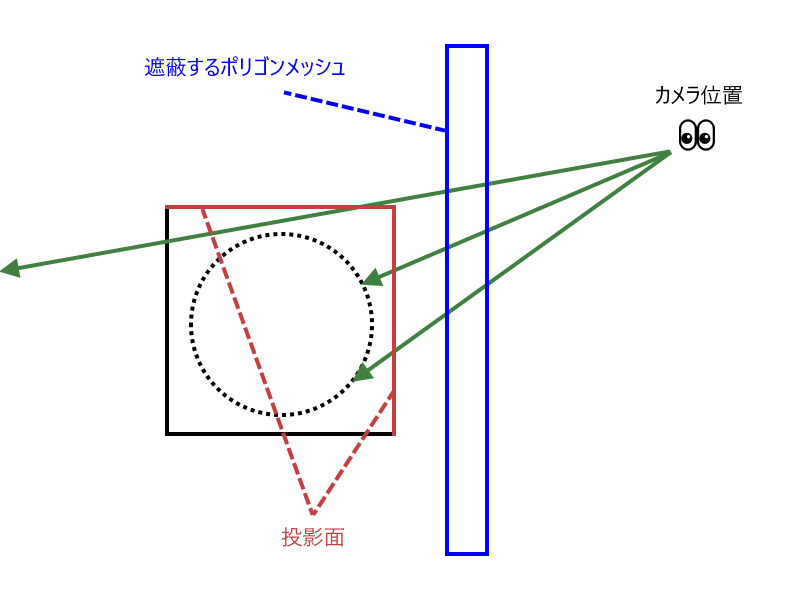
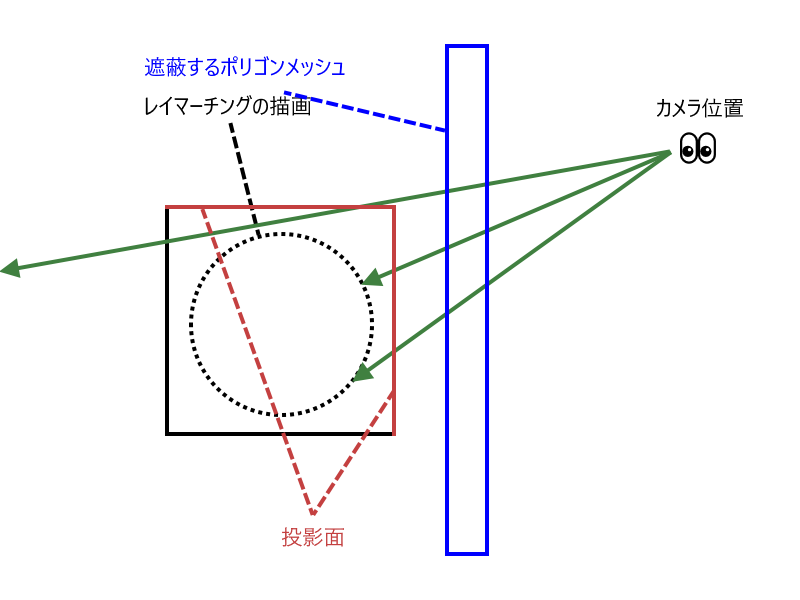
feat: Add optimize methods

Changed region(s): [[0.1875, 0.15, 0.4062, 0.33], [0.8125, 0.12, 0.9375, 0.27], [0.3125, 0.36, 0.3438, 0.39]]

diff --git a/articles/koturn-unity-sphere-tracing-tips.md b/articles/koturn-unity-sphere-tracing-tips.md
@@ -1611,25 +1611,82 @@ half4 tex2DTriPlanar(sampler2D tex, float3 pos, float3 normal, float sharpness)
 
 下記のどちらかの場合に適用可能な手法である．
 
-- 投影先がQuadでCube内部にレイマーチングオブジェクトを描画する場合
+- 投影先がQuadでポリゴンメッシュより後方にレイマーチングオブジェクトを描画する場合
 - 投影先がCubeかつ `Cull Back` の指定があり，Cube内部にレイマーチングオブジェクトを描画する場合
 
-特に描画対象がQuadの場合は窓から覗き込むと向こう側に景色が見えるという場合は，開始点はメッシュの表面からにしておいた方がよい．
-modを利用して景色が無限に広がるようなものを描画する場合，Quadより手前に描画されることで，違和感のある見え方になるためだ．
+カメラからレイ進行を開始するより幾分かスキップできる．
 
-![メッシュの表面をレイの開始点とする](/images/koturn-unity-sphere-tracing-tips/StartFromFrontOfMesh.png)
+![レイの開始点をメッシュの表面とする図](/images/koturn-unity-sphere-tracing-tips/StartFromFrontOfMesh.png)
 
-投影先がCubeかつ **`Cull Front` の指定**があり，Cube内部にレイマーチングオブジェクトを描画する場合は，本件を適用できないが，オブジェクト内部に描画するという前提であれば，オブジェクトの全ての2頂点の組の距離で最長の長さ分だけ，レイの終点（すなわちメッシュの裏面）から戻した位置から開始するのも1つの手である．
+特に描画対象がQuadであり，窓から覗き込むと向こう側に景色が見えるというものを実現する場合は，見え方の観点からも開始点はメッシュの表面からにしておいた方がよい．
+そうしなかった場合，例えばmodを利用して景色が無限に広がるようなものを描画してしまうと，カメラからQuadまでの間にレイマーチングオブジェクトが表示される視覚効果となり，違和感があるものとなってしまう．
 
 #### ニアクリップ面
 
-TODO
+レイのスタート地点をニアクリップ面とすることで僅かな計算負荷の軽減ができる．
+また，カメラのニアクリップ面より手前にあるポリゴンメッシュはカリングが行われ描画が行われないが，レイマーチングオブジェクトについても同様の挙動とすることができる．
+
+![レイの開始点をニアクリップ面とする図](/images/koturn-unity-sphere-tracing-tips/StartFromNearClip.png)
+
+カメラ真正面の方向ベクトルを $\boldsymbol{v}_c$, カメラからポリゴンメッシュへの方向ベクトルを $\boldsymbol{v}_r$ ，その2つのベクトルがなす角を $\theta$ とすると，
+
+$$
+\boldsymbol{v}_c \cdot \boldsymbol{v}_r = | \boldsymbol{v}_c | | \boldsymbol{v}_r | \cos \theta
+$$
+
+となる．方向ベクトルであるので $| \boldsymbol{v}_c | = 1$ かつ $| \boldsymbol{v}_r | = 1$ であることから，
+
+$$
+\boldsymbol{v}_c \cdot \boldsymbol{v}_r = \cos \theta
+$$
+
+となる．
+カメラ中心から正面方向のニアクリップ面までの距離を $L_n$ とすると，カメラ中心からレイ方向へのニアクリップ面までの距離 $L_r$ は
+
+$$
+L_r = \dfrac{L_n}{\cos \theta} = \dfrac{L_n}{\boldsymbol{v}_c \cdot \boldsymbol{v}_r}
+$$
+
+となる．
+
+`_ProjectionParams.y` がカメラの中心から正面方向のニアクリップ面までの距離であり， `-UNITY_MATRIX_V[2].xyz` がワールド空間におけるカメラ真正面の方向ベクトルであるため， `rayDir` をワールド空間におけるレイ方向とすると，カメラ中心からレイ方向のニアクリップ面までの距離は
+
+```hlsl
+float nearLength = _ProjectionParams.y / dot(rayDir, -UNITY_MATRIX_V[2].xyz);
+```
+
+となる．
+レイの初期長をこの距離とするとよい．
 
 ### レイの終点・打ち切り距離
 
 #### メッシュ裏面
 
-TODO
+下記の場合に適用可能な手法である．
+
+- 投影先がCubeかつ `Cull Front` の指定があり，Cube内部にレイマーチングオブジェクトを描画する場合
+
+投影先をCubeの裏側としているため，それ以上レイを進行する必要がない．
+
+![レイ進行の打ち切り点をメッシュの裏側とする図](/images/koturn-unity-sphere-tracing-tips/EndsWithBackOfMesh.png)
+
+投影先がCubeでその内部にレイマーチングオブジェクトを描画するとき，下記のように最適化戦略が分かれる．
+
+- [メッシュ表面に投影するときはレイの開始点](#メッシュ表面)
+- [メッシュ裏面に投影するときはレイ進行の打ち切り点](#メッシュ裏面)
+
+しかし，メッシュ裏面へ投影する場合であっても，下記のように開始点をある程度最適化できる．
+
+Cubeを構成する頂点から2つを選択し，その最大長分だけ，レイの終点（すなわちメッシュの裏面）から戻した位置から開始するのも1つの手である．
+ただし，開始点がカメラ位置より後ろにならないよう制約を加える必要はある．
+
+※Cubeを構成する頂点を2つ選択したときの最大長 $L_p$ は下記のとおり
+
+$$
+L_p = \sqrt{(0.5 - (-0.5))^2 + (0.5 - (-0.5))^2 + (0.5 - (-0.5))^2} = \sqrt{3}
+$$
+
+メッシュ表面へ投影する場合も，カメラから投影面への距離に $L_p$ を加えたものを超えたらレイ進行を打ち切るといった具合に最適化できる．
 
 #### Depth texture
 
@@ -1637,7 +1694,19 @@ TODO
 
 #### ファークリップ面
 
-TODO
+ニアクリップ面を開始点とするのと同様に，ファークリップ面をレイの進行打ち切り点とすることで計算負荷の軽減とポリゴンメッシュと同様のカリングを行うことができる．
+
+![レイ進行の打ち切り点をファークリップ面とする図](/images/koturn-unity-sphere-tracing-tips/EndsWithFarClip.png)
+
+導出仮定はニアクリップ面の章で述べたのと同様であるため省略する．
+`_ProjectionParams.z` がカメラの中心から正面方向のファークリップ面までの距離であるため，カメラ中心からレイ方向のファークリップ面までの距離は
+
+```hlsl
+float farLength = _ProjectionParams.z / dot(rayDir, -UNITY_MATRIX_V[2].xyz);
+```
+
+となる．
+レイ長がこの距離を超過したとき，進行を打ち切るとよい．
 
 ### レイ進行アルゴリズムの改善
 
